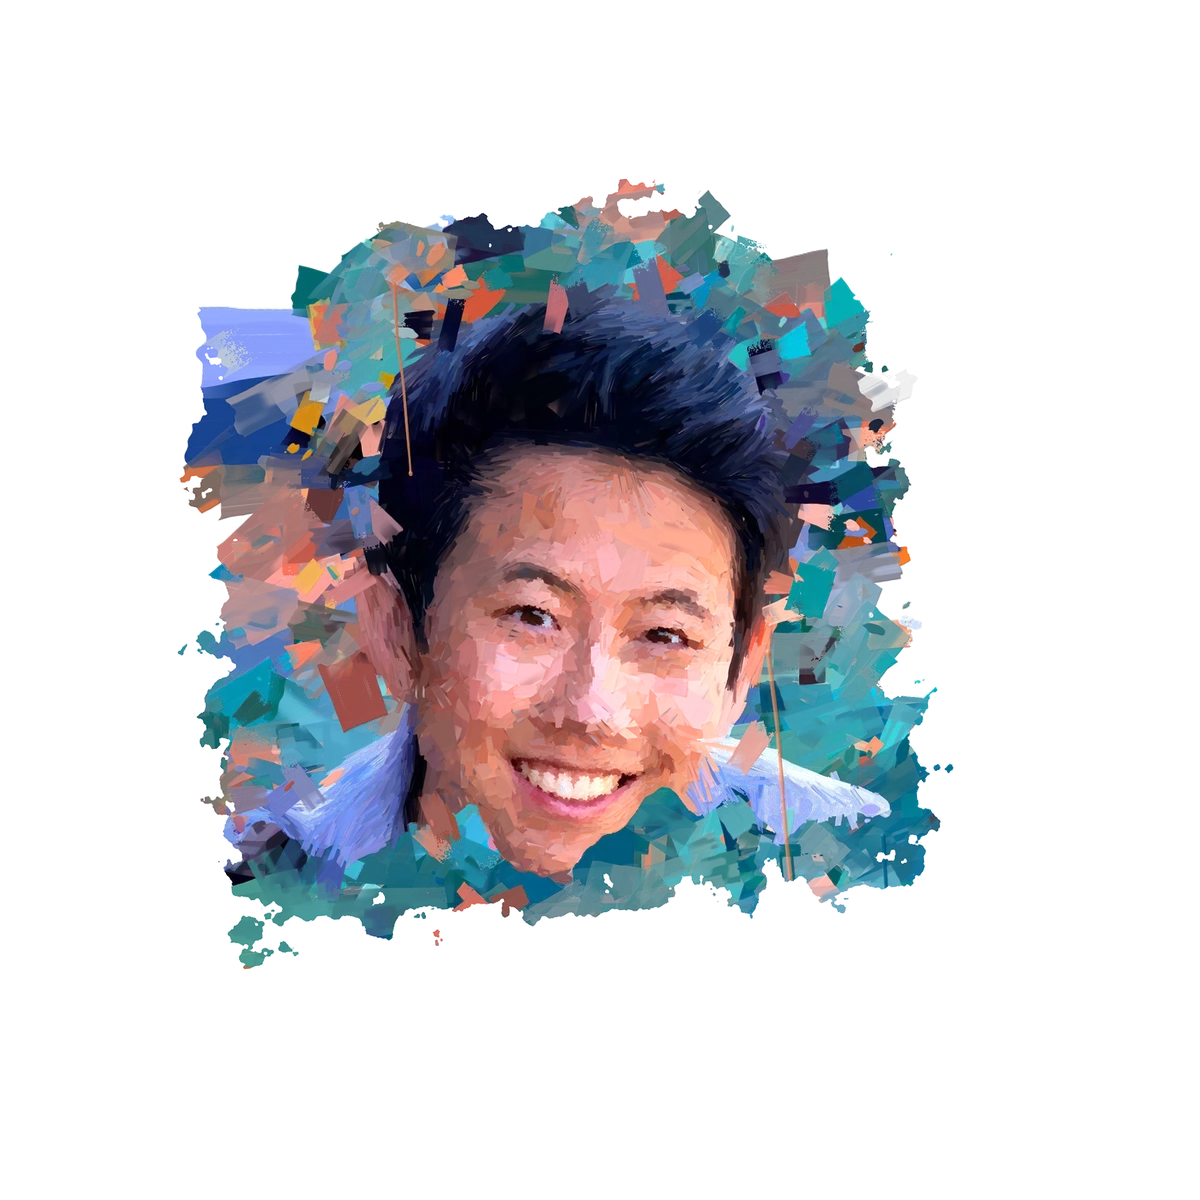
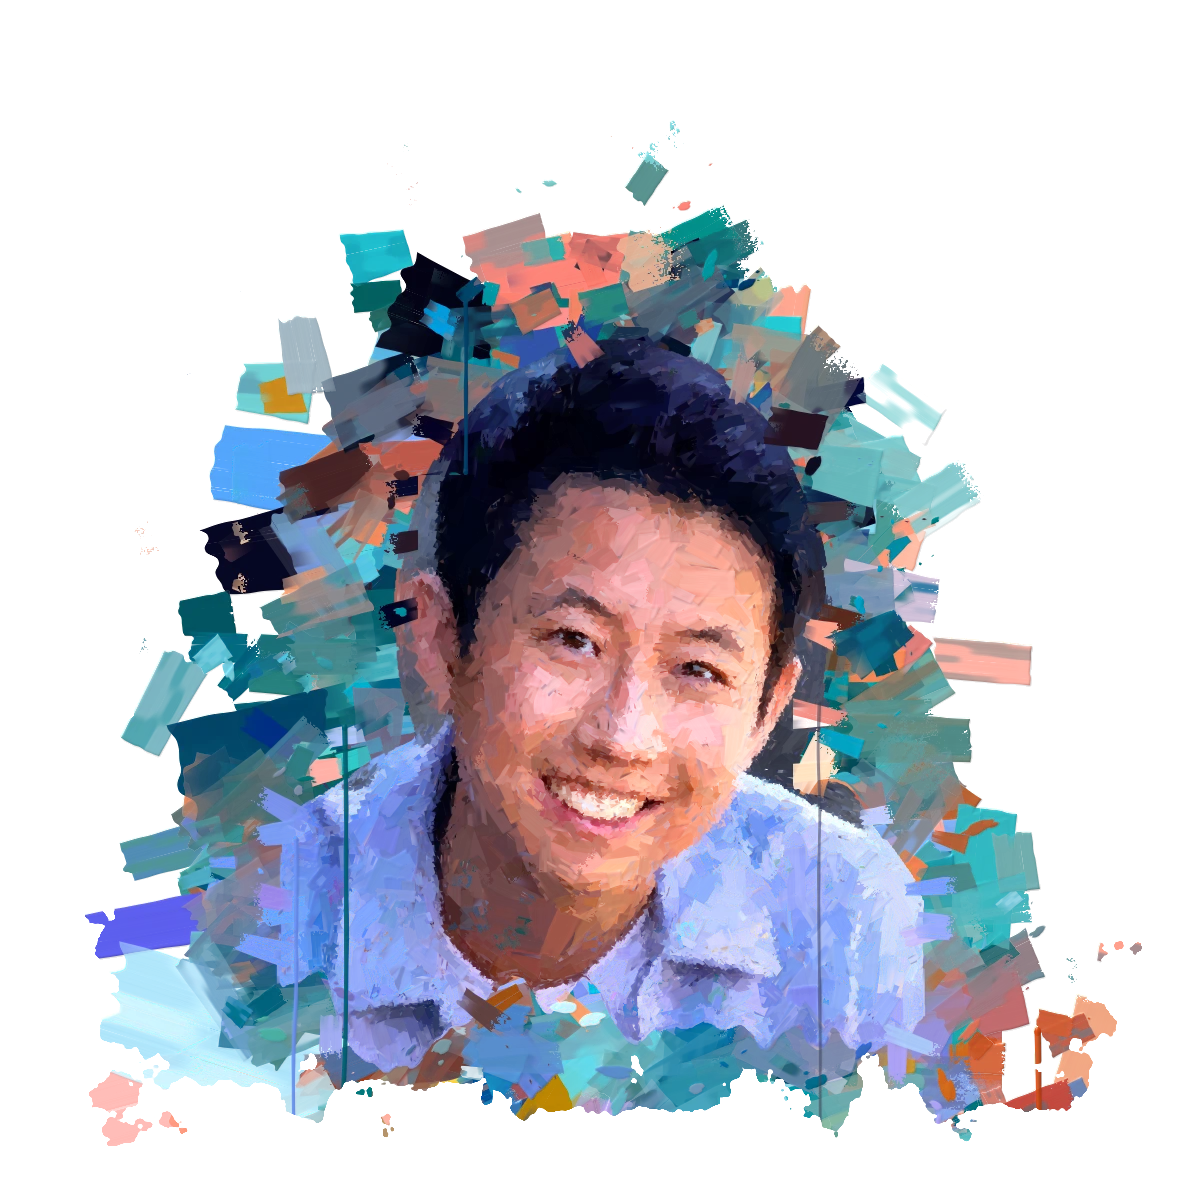
Repaint Brendan's portrait from his headshot at Boris's framing
frameHeadshot.py pads the headshot so the face is about a third of the
width and draws a head-and-shoulders mask; paintPortrait.mts paints it with
the knife engine's defaults on the studio paper; portraits.mts lifts it off.

  python3 scripts/frameHeadshot.py headshot.png photo.png mask.png 95
  npx tsx scripts/paintPortrait.mts photo.png mask.png painted.png
  npx tsx scripts/portraits.mts brendan=painted.png

diff --git a/scripts/frameHeadshot.py b/scripts/frameHeadshot.py
@@ -1,0 +1,20 @@
+"""Frames a headshot like Boris's portrait: face about a third of the width, centred,
+background extended by blurred edge pixels. Writes the photo and a head-and-shoulders mask."""
+import sys, numpy as np
+from PIL import Image, ImageDraw, ImageFilter
+src_path, out_photo, out_mask, top = sys.argv[1], sys.argv[2], sys.argv[3], int(sys.argv[4])
+src = Image.open(src_path).convert('RGB')
+m = Image.new('L', src.size, 0); d = ImageDraw.Draw(m)
+d.ellipse((140, 80, 540, 600), fill=255)
+d.polygon([(30, 948), (30, 530), (120, 470), (190, 440), (480, 470), (560, 500), (630, 600), (630, 948)], fill=255)
+m = m.filter(ImageFilter.GaussianBlur(4))
+side = 980; x0 = (side - 657) // 2
+pad = ((top, max(0, side - top - 948)), (x0, side - x0 - 657))
+img = np.pad(np.asarray(src), pad + ((0, 0),), mode='edge')[:side, :side]
+msk = np.zeros((side, side), np.uint8)
+h = min(948, side - top); msk[top:top + h, x0:x0 + 657] = np.asarray(m)[:h]
+im = Image.fromarray(img); blur = im.filter(ImageFilter.GaussianBlur(18))
+inside = Image.new('L', (side, side), 0); ImageDraw.Draw(inside).rectangle((x0, top, x0 + 656, side), fill=255)
+im = Image.composite(im, blur, inside.filter(ImageFilter.GaussianBlur(10)))
+im.resize((1200, 1200), Image.LANCZOS).save(out_photo)
+Image.fromarray(msk).filter(ImageFilter.GaussianBlur(3)).resize((1200, 1200), Image.LANCZOS).save(out_mask)
